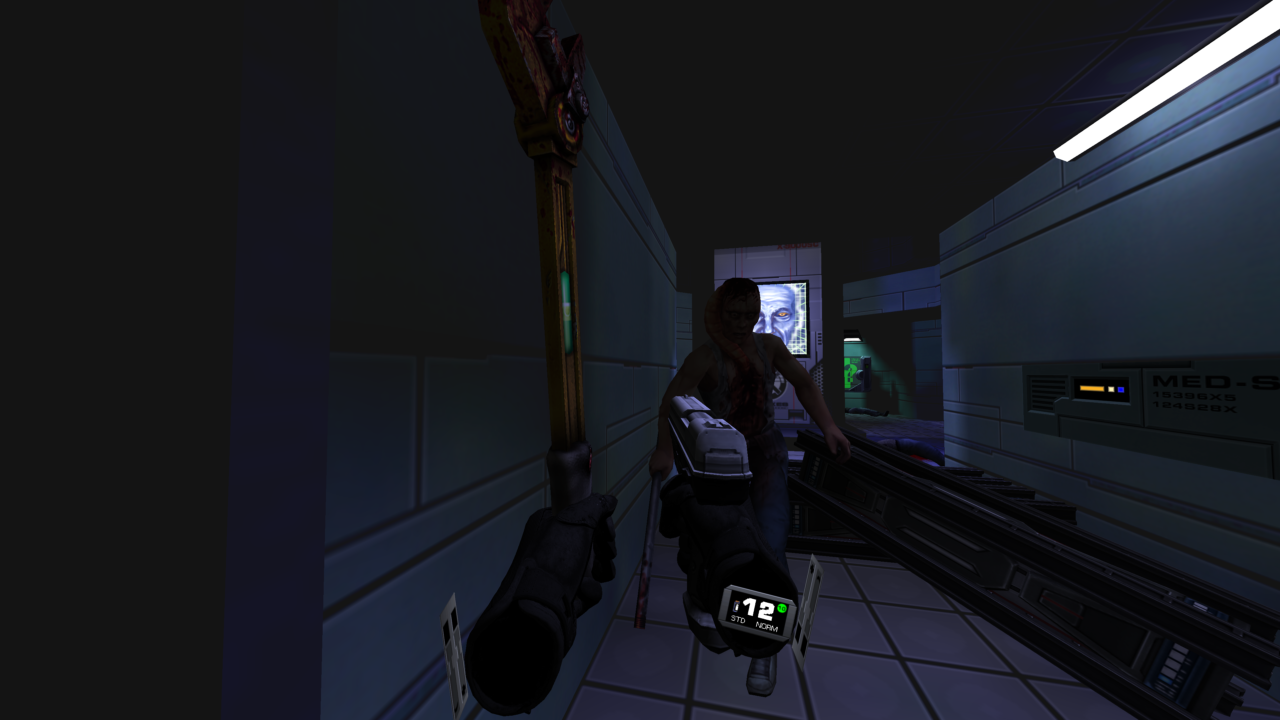
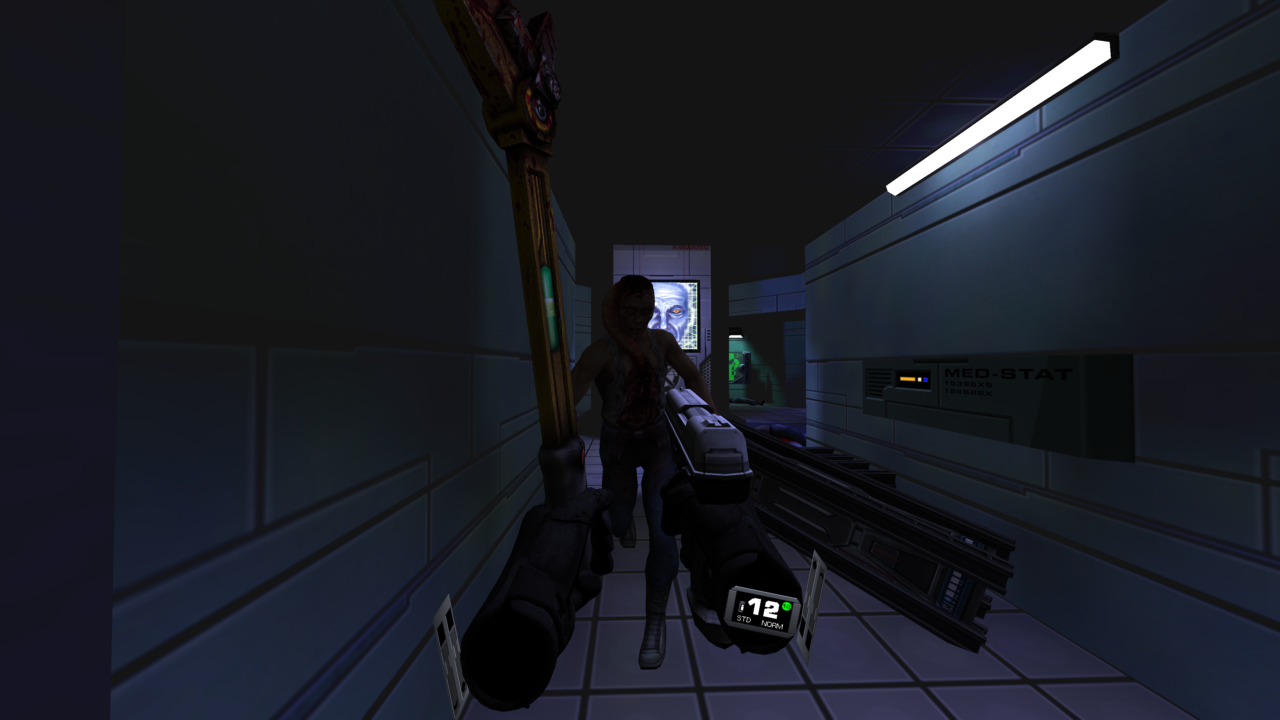
fix(hero-shots): aim hands without roll; aim at the subject's current position

diff --git a/tools/shock2-sdk/src/vr-pose.ts b/tools/shock2-sdk/src/vr-pose.ts
@@ -1,12 +1,10 @@
 // Stage VR hands for captures: place each controller at an offset from the
 // eye (in the head's yaw frame) and aim it at a world point.
-import type { Game } from "./game.js";
+import { type Game, lookQuat } from "./game.js";
 import type { Quat, Vec3 } from "./types.js";
 import {
   add,
-  normalize,
   quatConjugate,
-  quatFromTo,
   quatMultiply,
   quatNormalize,
   quatRotate,
@@ -32,7 +30,9 @@ export function handPoseAimedAt(
   const yaw = Math.atan2(-toward[0], -toward[2]);
   const yawRotation: Quat = [0, Math.sin(yaw / 2), 0, Math.cos(yaw / 2)];
   const world = add(eye, quatRotate(yawRotation, offset));
-  const worldRotation = quatFromTo([0, 0, -1], normalize(sub(target, world)));
+  // lookQuat, not a shortest arc from -Z: that picks an arbitrary roll (a
+  // gun aimed along +Z comes out upside down).
+  const worldRotation = lookQuat(sub(target, world));
   const inversePawn = quatConjugate(pawnRotation);
   return {
     position: quatRotate(inversePawn, sub(world, pawnPosition)),
@@ -85,8 +85,7 @@ export async function faceTarget(game: Game, target: Vec3): Promise<void> {
   }
   await turnPawnToward(game, target);
   await game.input.lookAtWorldPoint(target);
-  // The body yaw eases toward the head with a 0.5 s time constant; 1 s
-  // closes ~86% of the turn, well inside the zones' tolerance.
+  // Let the zones' eased (0.5 s time constant) yaw catch up with the head.
   await game.step({ frames: 60 });
 }
 

diff --git a/tools/shock2-sdk/test/vr-pose.test.ts b/tools/shock2-sdk/test/vr-pose.test.ts
@@ -26,3 +26,12 @@ test("offsets are in the head's yaw frame toward the target", () => {
   assert.ok(Math.abs(fromEye[0] + 0.5) < 1e-6, `forward ${fromEye}`);
   assert.ok(Math.abs(fromEye[2] + 0.2) < 1e-6, `right ${fromEye}`);
 });
+
+test("the posed hand stays upright aiming along world +Z", () => {
+  // Shortest-arc rotations from -Z flip ~180 degrees of roll here.
+  const unturned: Quat = [0, 0, 0, 1];
+  const target: Vec3 = [10, 1.2, 12];
+  const pose = handPoseAimedAt(pawn, unturned, eyeHeight, target, [0.1, -0.2, -0.5]);
+  const up = quatRotate(pose.rotation, [0, 1, 0]);
+  assert.ok(up[1] > 0.9, `hand up ${up}`);
+});

diff --git a/tools/shock2-sdk/test/helpers/vr-hand.ts b/tools/shock2-sdk/test/helpers/vr-hand.ts
@@ -4,7 +4,8 @@ import type { UiPanelPose, Vec3 } from "../../src/types.js";
 import { add, dot, normalize, quatConjugate, quatFromTo, quatMultiply, quatNormalize, quatRotate, scale, sub } from "../../src/vec.js";
 
 export * from "../../src/vec.js";
-export type Hand = "left" | "right";
+import type { Hand } from "../../src/vr-pose.js";
+export type { Hand };
 
 /**
  * Aim a controller at a point on the VR cyber-interface panel's canvas.

diff --git a/README.md b/README.md
@@ -16,7 +16,7 @@ Once installed, copy `sshock2.kpf` and the `mods/` folder from it - see [DEVELOP
 
 ## Screenshots
 
-<img src="screenshots/hero/hydro1.png" alt="Hydroponics: shotgun, two-handed, on a hybrid" width="400"/> <img src="screenshots/hero/medsci1.png" alt="Med/Sci: wrench and pistol against a hybrid" width="400"/>
+<img src="screenshots/hero/hydro1.png" alt="Hydroponics: shotgun on a hybrid" width="400"/> <img src="screenshots/hero/medsci1.png" alt="Med/Sci: wrench and pistol against a hybrid" width="400"/>
 <img src="screenshots/hero/ops2.png" alt="Operations: psi amp and laser pistol against a protocol droid" width="400"/> <img src="screenshots/hero/rec1.png" alt="Recreation: pistol on a monkey" width="400"/>
 
 Regenerate with `node scripts/hero-shots.mjs` from `tools/shock2-sdk` (after `npm run build`).
